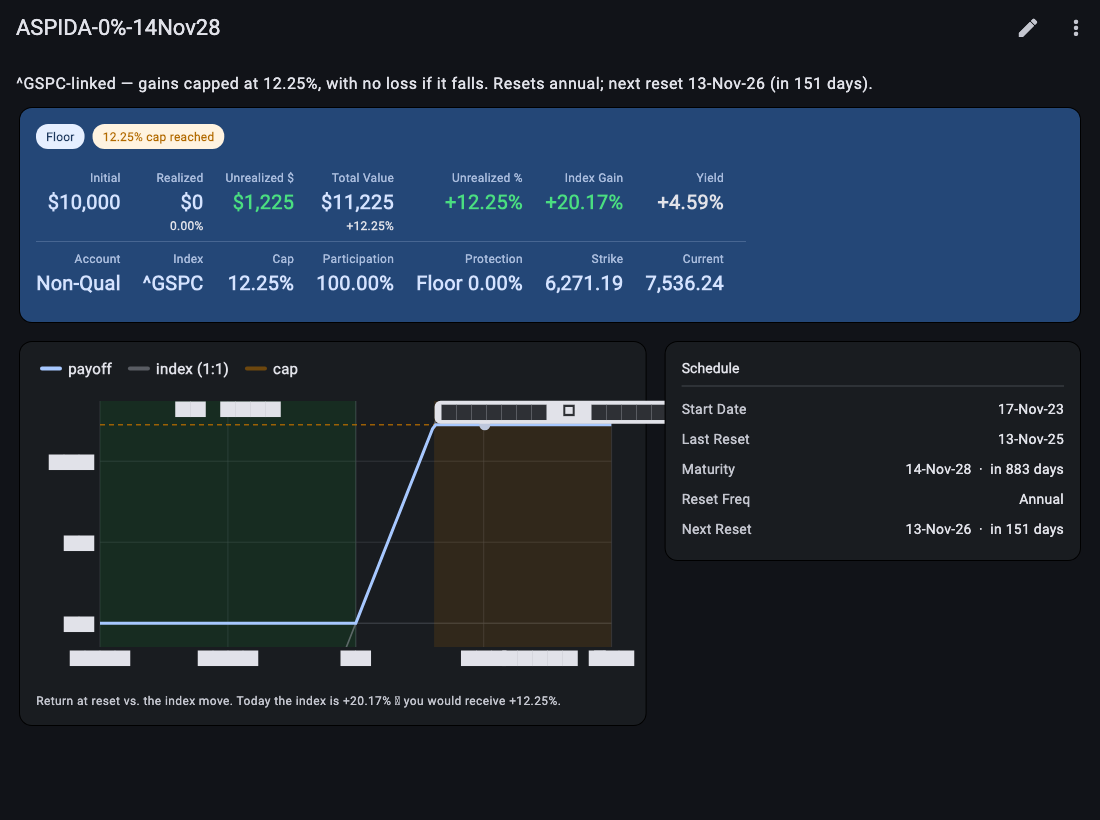
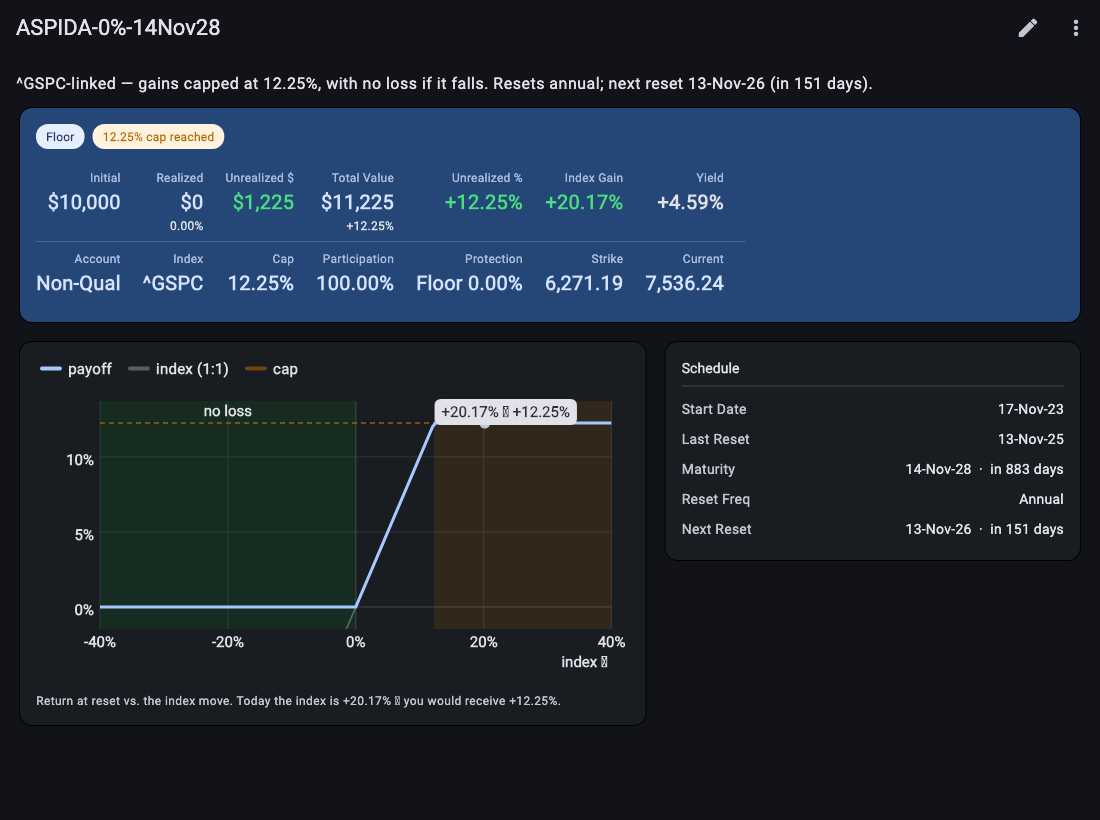
fix: chart text uses the app font; refresh README screenshots (#39)
The three chart painters (holding index chart, payoff chart, main index
chart) drew text without naming a font. In the screenshot harness that
rendered every axis number, date and line label as a white box, and the
README's drilldown.png showed those boxes. They now take the theme's
font family.

With real text the payoff chart's "index →" axis title printed over the
last % tick ("index40%"); it now sits on its own line under the ticks
(bottom padding 38 -> 56 px).

Screenshots regenerated with Flutter 3.50 and copied to docs/screenshots
(hero, drilldown, phone-cards). The → and ▲ glyphs still show as boxes
there because the test font lacks them; the browser renders them.

296 tests pass. Version 1.6.15.

diff --git a/app/lib/ui/payoff_chart.dart b/app/lib/ui/payoff_chart.dart
@@ -46,7 +46,7 @@ class PayoffChart extends StatelessWidget {
         SizedBox(
           height: 300,
           child: CustomPaint(
-            painter: _PayoffPainter(h, range, cs),
+            painter: _PayoffPainter(h, range, cs, font: Theme.of(context).textTheme.bodyMedium?.fontFamily),
             child: const SizedBox.expand(),
           ),
         ),
@@ -69,10 +69,11 @@ class PayoffChart extends StatelessWidget {
 }
 
 class _PayoffPainter extends CustomPainter {
-  _PayoffPainter(this.h, this.range, this.cs);
+  _PayoffPainter(this.h, this.range, this.cs, {this.font});
   final Holding h;
   final double range;
   final ColorScheme cs;
+  final String? font; // the app's font; canvas text doesn't inherit it
 
   double _payoff(double idx) => h.isIncomeNote
       ? h.couponRate
@@ -84,7 +85,7 @@ class _PayoffPainter extends CustomPainter {
 
   @override
   void paint(Canvas canvas, Size size) {
-    const padL = 64.0, padR = 18.0, padT = 16.0, padB = 38.0;
+    const padL = 64.0, padR = 18.0, padT = 16.0, padB = 56.0;
     final w = size.width - padL - padR;
     final ht = size.height - padT - padB;
     final idxLo = -range, idxHi = range;
@@ -204,7 +205,9 @@ class _PayoffPainter extends CustomPainter {
     _label(canvas, '${pctSigned(h.indexGain)} → ${pctSigned(h.projGain)}',
         Offset((pt.dx + 10).clamp(padL, padL + w - 170), pt.dy - 20), accent: true);
 
-    _label(canvas, 'index →', Offset(padL + w - 4, padT + ht + 4), right: true);
+    // Axis title on its own line under the % ticks (beside them it printed
+    // over the last tick).
+    _label(canvas, 'index →', Offset(padL + w - 4, padT + ht + 24), right: true);
   }
 
   void _label(Canvas canvas, String t, Offset at,
@@ -213,6 +216,7 @@ class _PayoffPainter extends CustomPainter {
       text: TextSpan(
           text: t,
           style: TextStyle(
+              fontFamily: font,
               // The accent (marker) label sits on a filled chip, so use the
               // high-contrast tooltip foreground; plain labels use onSurface.
               color: accent ? cs.onInverseSurface : cs.onSurface,

diff --git a/app/lib/ui/index_period_chart.dart b/app/lib/ui/index_period_chart.dart
@@ -122,7 +122,8 @@ class _IndexPeriodChartState extends State<IndexPeriodChart> {
               onHorizontalDragStart: (d) => setCursor(d.localPosition.dx),
               onHorizontalDragUpdate: (d) => setCursor(d.localPosition.dx),
               child: CustomPaint(
-                painter: _IndexPeriodPainter(h, pts, cs, _cursorFrac, support),
+                painter: _IndexPeriodPainter(h, pts, cs, _cursorFrac, support,
+                    font: Theme.of(context).textTheme.bodyMedium?.fontFamily),
                 child: const SizedBox.expand(),
               ),
             ),
@@ -188,12 +189,14 @@ String supportLabel(double lvl, String baseIndex) => baseIndex == 'NDX'
     : 'support ${level(lvl)}';
 
 class _IndexPeriodPainter extends CustomPainter {
-  _IndexPeriodPainter(this.h, this.pts, this.cs, this.cursorFrac, this.support);
+  _IndexPeriodPainter(this.h, this.pts, this.cs, this.cursorFrac, this.support,
+      {this.font});
   final Holding h;
   final List<(DateTime, double)> pts;
   final ColorScheme cs;
   final double? cursorFrac; // 0..1 across the plot; null when not hovering
   final double? support; // null = support line off
+  final String? font; // the app's font; canvas text doesn't inherit it
 
   @override
   void paint(Canvas canvas, Size size) {
@@ -354,7 +357,8 @@ class _IndexPeriodPainter extends CustomPainter {
     final tp = TextPainter(
       text: TextSpan(
           text: s,
-          style: TextStyle(color: fg, fontSize: 15, fontWeight: FontWeight.w700)),
+          style: TextStyle(
+              fontFamily: font, color: fg, fontSize: 15, fontWeight: FontWeight.w700)),
       textDirection: TextDirection.ltr,
     )..layout();
     const padX = 6.0, padY = 3.0;
@@ -372,6 +376,7 @@ class _IndexPeriodPainter extends CustomPainter {
       text: TextSpan(
           text: s,
           style: TextStyle(
+              fontFamily: font,
               color: color ?? cs.onSurface,
               fontSize: 15,
               fontWeight: color == null ? FontWeight.w600 : FontWeight.w700)),

diff --git a/app/lib/ui/index_chart_screen.dart b/app/lib/ui/index_chart_screen.dart
@@ -211,7 +211,8 @@ class _IndexChartScreenState extends State<IndexChartScreen> {
               onHorizontalDragStart: (d) => setCursor(d.localPosition.dx),
               onHorizontalDragUpdate: (d) => setCursor(d.localPosition.dx),
               child: CustomPaint(
-                painter: _MultiLinePainter(series, cs, _range.label, _cursorFrac),
+                painter: _MultiLinePainter(series, cs, _range.label, _cursorFrac,
+                    font: Theme.of(context).textTheme.bodyMedium?.fontFamily),
                 child: const SizedBox.expand(),
               ),
             ),
@@ -305,9 +306,11 @@ class _LegendChip extends StatelessWidget {
 enum _Anchor { left, center, right }
 
 class _MultiLinePainter extends CustomPainter {
-  _MultiLinePainter(this.series, this.cs, this.rangeLabel, this.cursorFrac);
+  _MultiLinePainter(this.series, this.cs, this.rangeLabel, this.cursorFrac,
+      {this.font});
   final List<_Series> series;
   final ColorScheme cs;
+  final String? font; // the app's font; canvas text doesn't inherit it
   final String rangeLabel;
   final double? cursorFrac;
 
@@ -451,7 +454,8 @@ class _MultiLinePainter extends CustomPainter {
     final tp = TextPainter(
       text: TextSpan(
           text: s,
-          style: TextStyle(color: color ?? cs.onSurfaceVariant, fontSize: 10)),
+          style: TextStyle(
+              fontFamily: font, color: color ?? cs.onSurfaceVariant, fontSize: 10)),
       textDirection: TextDirection.ltr,
     )..layout();
     var dx = at.dx;
@@ -467,7 +471,8 @@ class _MultiLinePainter extends CustomPainter {
     final tp = TextPainter(
       text: TextSpan(
           text: s,
-          style: TextStyle(color: fg, fontSize: 10, fontWeight: FontWeight.w700)),
+          style: TextStyle(
+              fontFamily: font, color: fg, fontSize: 10, fontWeight: FontWeight.w700)),
       textDirection: TextDirection.ltr,
     )..layout();
     const padH = 4.0, padV = 2.0;
